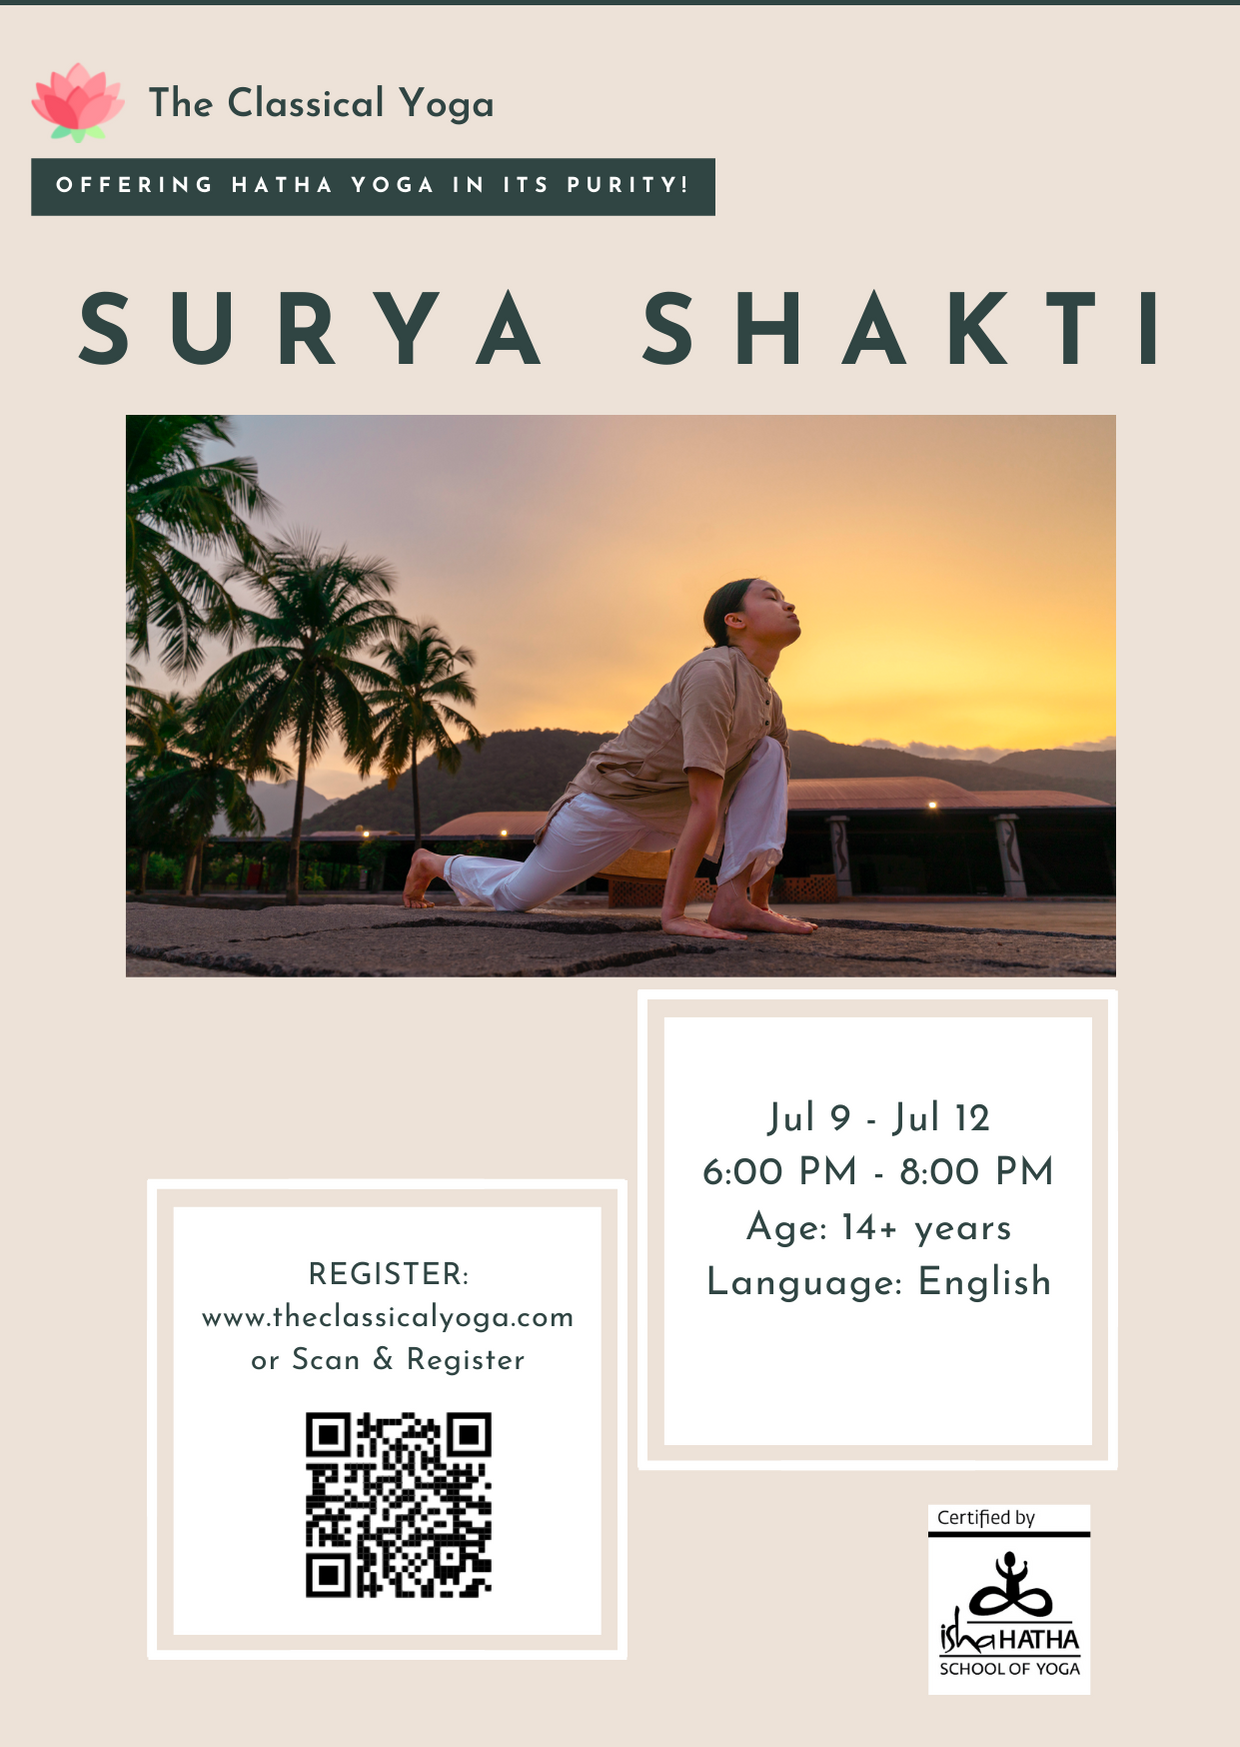
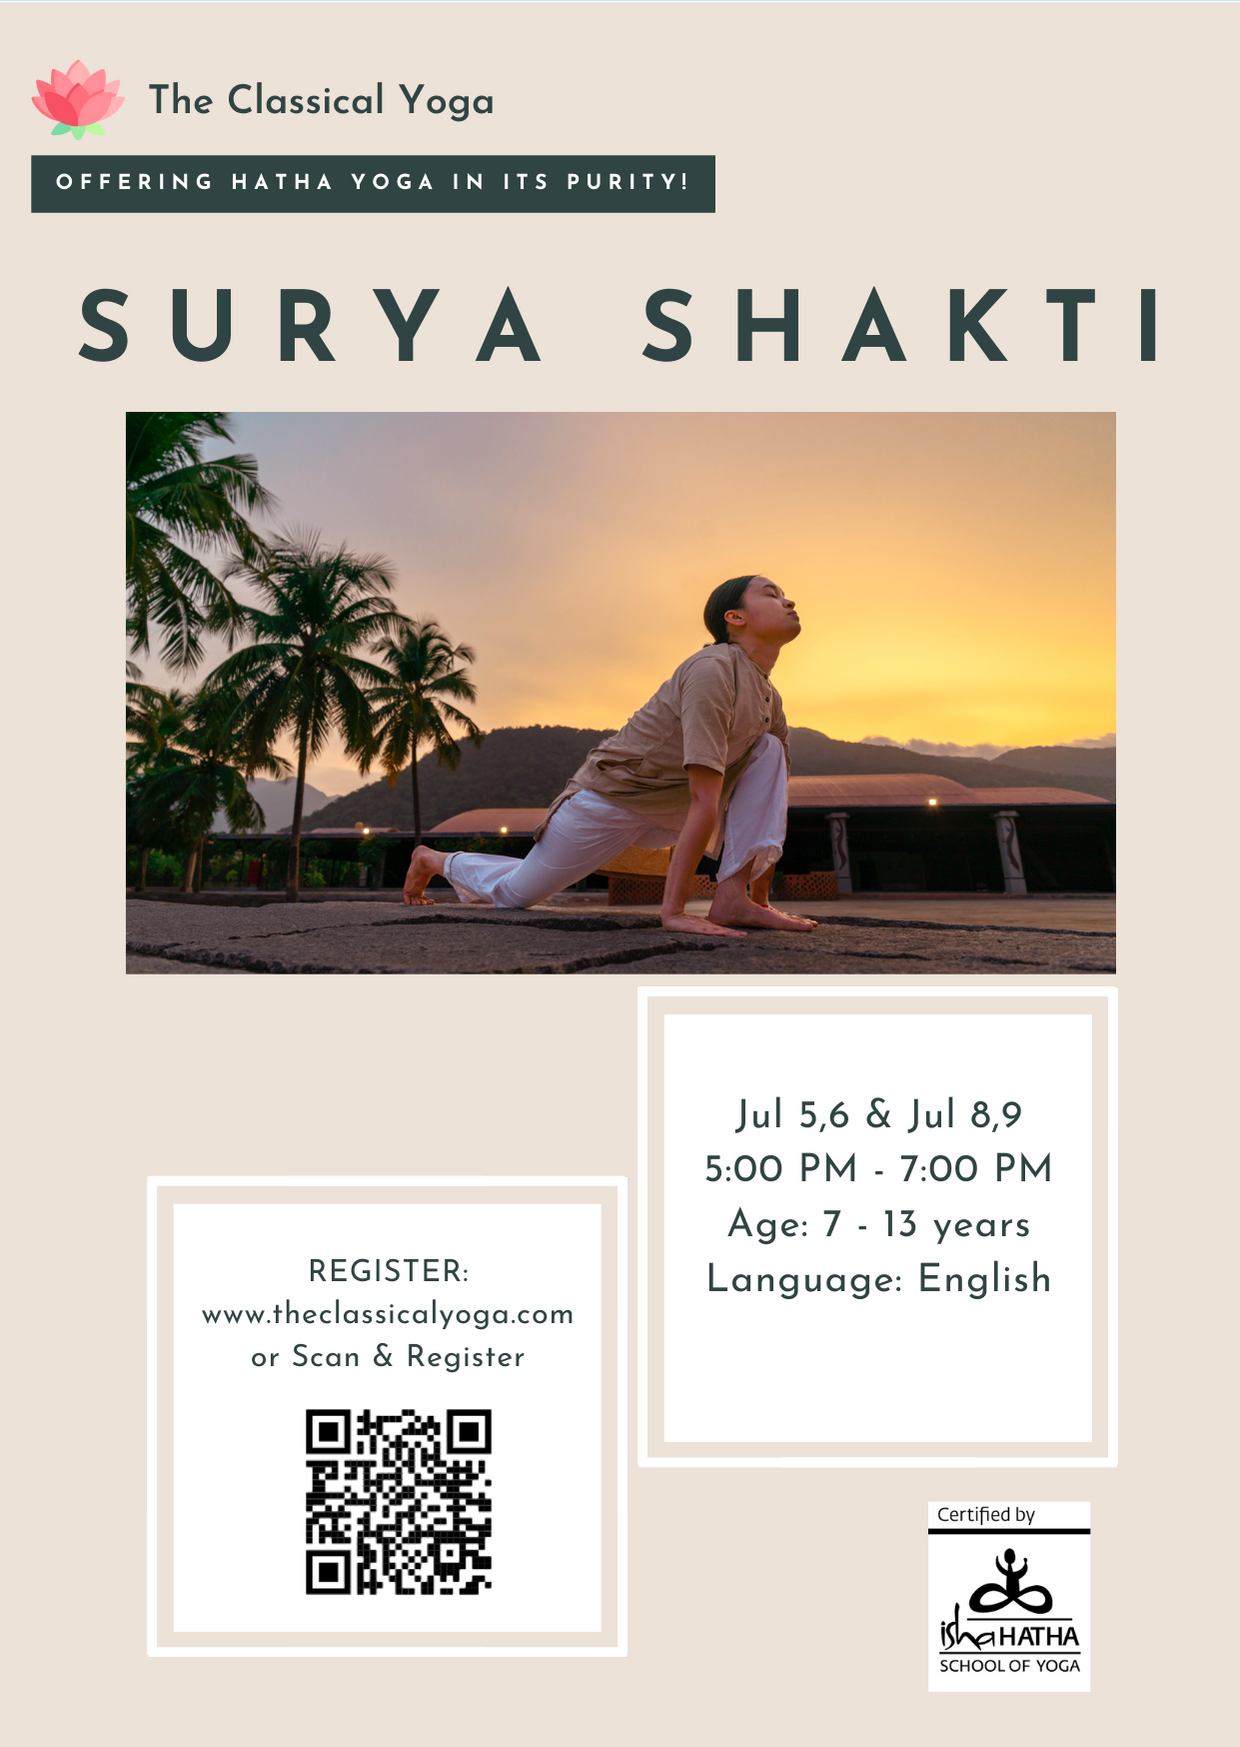
updated dates for SS, YA and AM

diff --git a/classes.html b/classes.html
@@ -144,42 +144,6 @@
       </div>
 
       <!-- Bikash -->
-      <div class="row" id="Angamardana">
-        <div class="col-md-12">
-          <div class="services-2 ftco-animate d-flex w-100">
-            <div class="icon d-flex justify-content-center align-items-center\">
-              <span class="flaticon-meditation"></span>
-            </div>
-            <div class="text text-left pl-4">
-              <h3> <b>Angamardana</b> - The Ultimate Fitness Session in English</h3>
-              <p class="up-details">Jul 5-6, 2021 & Jul 8-9, 2021 | 6:00PM to 9:00PM | Age - 8+ years </p>
-              <p>
-                Registration Closed
-                <!-- <a href="registration_page.html" target="_blank" class="btn btn-white px-4 py-3"> Register Now <span
-                    class="ion-ios-arrow-round-forward"></span></a> -->
-
-              <div class="container-fluid px-md-5">
-                <div class="row">
-                  <div class="col-md-3 ftco-animate">
-                    <a href="images/flyer/Angamardana26May2021/Angamardana1.png"
-                      class="gallery image-popup img d-flex align-items-center"
-                      style="background-image: url(images/flyer/Angamardana26May2021/Angamardana1.png);"></a>
-                    </a>
-
-                  </div>
-                  <div class="col-md-3 ftco-animate">
-                    <a href="images/flyer/Angamardana26May2021/Angamardana2.png"
-                      class="gallery image-popup img d-flex align-items-center"
-                      style="background-image: url(images/flyer/Angamardana26May2021/Angamardana2.png);">
-                    </a>
-                  </div>
-
-                </div>
-              </div>
-            </div>
-          </div>
-        </div>
-      </div>
 
       <div class="row" id="SuryaShakti">
         <div class="col-md-12">
@@ -189,7 +153,7 @@
             </div>
             <div class="text text-left pl-4">
               <h3> <b>Surya Shakti</b> - in English</h3>
-              <p class="up-details">Jul 10, 2021 to Jul 13, 2021 | 6:00PM to 8:00PM | Age 7-13 years </p>
+              <p class="up-details">5, 6 Jul 2021 & 8, 9 Jul 2021 | 5:00PM to 7:00PM | Age 7-13 years </p>
               <p>
                 Registration Closed
                 <!-- <a href="registration_page.html" target="_blank" class="btn btn-white px-4 py-3"> Register Now <span
@@ -226,7 +190,7 @@
             </div>
             <div class="text text-left pl-4">
               <h3> <b>Yogasanas</b> - in English</h3>
-              <p class="up-details">Jul 5, 2021 to Jul 9, 2021 | 6:00AM to 9:00AM | Age - 14+ years </p>
+              <p class="up-details">Jul 10, 2021 to Jul 11, 2021 | 6:00AM to 9:00AM & 5:00PM to 8:00PM | Age - 14+ years </p>
               <p>
                 Registration Closed
                 <!-- <a href="registration_page.html" target="_blank" class="btn btn-white px-4 py-3"> Register Now <span
@@ -255,6 +219,46 @@
         </div>
       </div>
 
+
+      <div class="row" id="Angamardana">
+        <div class="col-md-12">
+          <div class="services-2 ftco-animate d-flex w-100">
+            <div class="icon d-flex justify-content-center align-items-center\">
+              <span class="flaticon-meditation"></span>
+            </div>
+            <div class="text text-left pl-4">
+              <h3> <b>Angamardana</b> - The Ultimate Fitness Session in English</h3>
+              <p class="up-details">12 Jul 2021 to 15 Jul 2021 | 5:30PM to 8:30PM | Age - 8+ years </p>
+              <p>
+                Registration Closed
+                <!-- <a href="registration_page.html" target="_blank" class="btn btn-white px-4 py-3"> Register Now <span
+                    class="ion-ios-arrow-round-forward"></span></a> -->
+
+              <div class="container-fluid px-md-5">
+                <div class="row">
+                  <div class="col-md-3 ftco-animate">
+                    <a href="images/flyer/Angamardana26May2021/Angamardana1.png"
+                      class="gallery image-popup img d-flex align-items-center"
+                      style="background-image: url(images/flyer/Angamardana26May2021/Angamardana1.png);"></a>
+                    </a>
+
+                  </div>
+                  <div class="col-md-3 ftco-animate">
+                    <a href="images/flyer/Angamardana26May2021/Angamardana2.png"
+                      class="gallery image-popup img d-flex align-items-center"
+                      style="background-image: url(images/flyer/Angamardana26May2021/Angamardana2.png);">
+                    </a>
+                  </div>
+
+                </div>
+              </div>
+            </div>
+          </div>
+        </div>
+      </div>
+
+     
+     
 
       <div class="row" id="SuryaKriya">
         <div class="col-md-12">

diff --git a/registration_page.html b/registration_page.html
@@ -241,16 +241,16 @@
                   8:00am - ₹2500
                 </option> -->
 
-                <option value="4DANGA_5Jul8Jul_18002100_2500">Angamardana | Jul 5 to Jul 8 | 6:00pm to
-                  9:00pm - ₹2500
+                <option value="4DANGA_5Jul8Jul_18002100_2500">Angamardana | Jul 12 to Jul 15 | 5:30pm to
+                  8:30pm - ₹2500
                 </option>
 
-                <option value="5DYA_5Jul9Jul_600900_3000">Yogasanas | Jul 5 to Jul 9 | 6:00am to
+                <option value="5DYA_10Jul12Jul_600900_3000">Yogasanas | Jul 10 to Jul 12 | 6:00am to
                   9:00am - ₹3000
                 </option>
 
-                <option value="4DSS_9Jul12Jul_18002000_2000">Surya Shakti | Jul 9 to Jul 12 | 6:00pm to
-                  8:00pm - ₹2000
+                <option value="4DSS_5Jul9Jul_17001900_2000">Surya Shakti | Jul 5 to Jul 9 | 5:00pm to
+                  7:00pm - ₹2000
                 </option>
 
 
